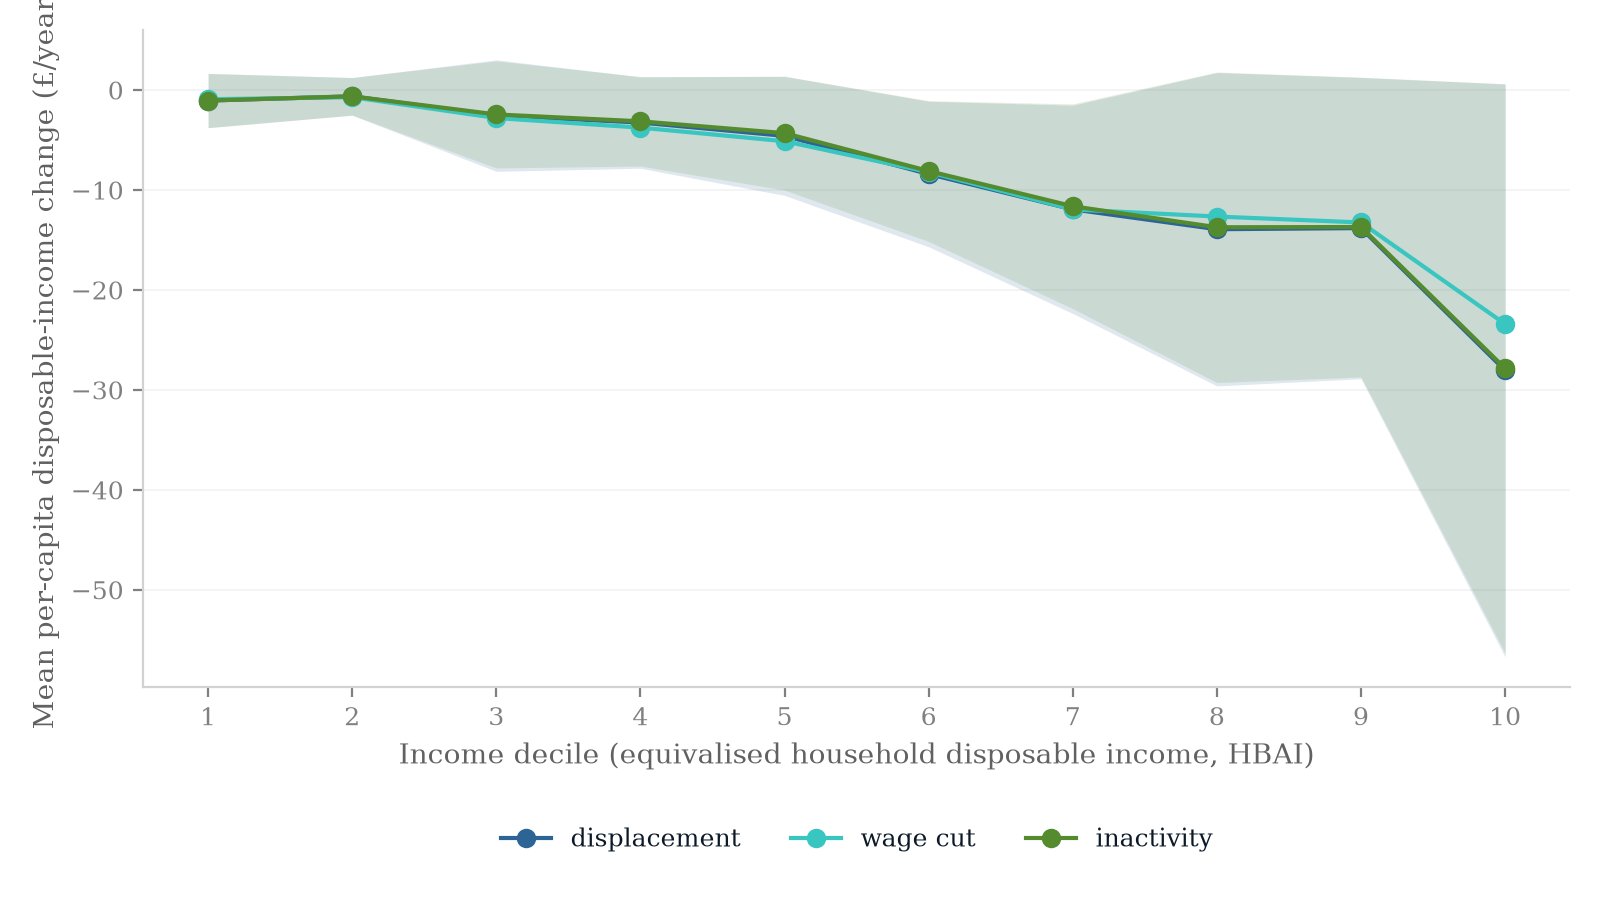
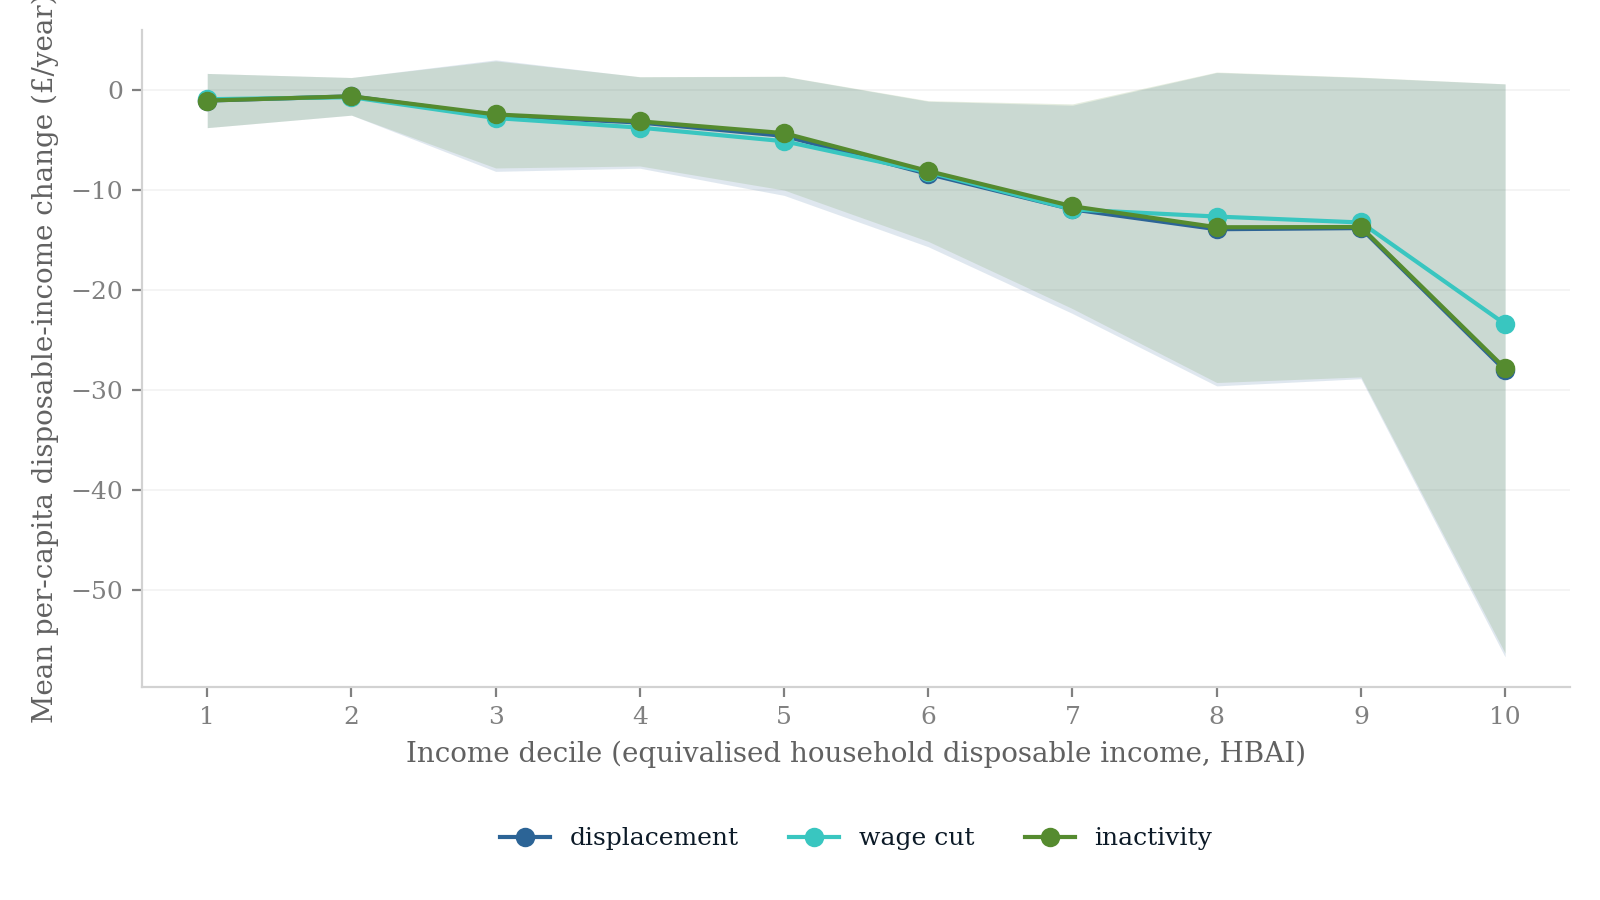
Report paper monetary values in millions

diff --git a/analysis/write_paper_results.py b/analysis/write_paper_results.py
@@ -84,18 +84,18 @@ def main() -> None:
         "FullDisplacedWorkers": _fmt(fd["displaced_weighted_mean"], 1 / 1_000, 1),
         "FullDisplacedGross": _fmt(
             sum(d["gross_earnings_loss"] for d in fd["draws"]) / len(fd["draws"]),
-            1 / 1e9,
-            3,
+            1 / 1e6,
+            0,
         ),
         "FullDisplacedGrossSD": _fmt(
             _sample_sd([d["gross_earnings_loss"] for d in fd["draws"]]),
-            1 / 1e9,
-            3,
+            1 / 1e6,
+            0,
         ),
-        "FullDisplacedExchequer": _fmt(fd["exchequer_cost_mean"], 1 / 1e9, 3),
-        "FullDisplacedExchequerSD": _fmt(fd["exchequer_cost_sd"], 1 / 1e9, 3),
+        "FullDisplacedExchequer": _fmt(fd["exchequer_cost_mean"], 1 / 1e6, 0),
+        "FullDisplacedExchequerSD": _fmt(fd["exchequer_cost_sd"], 1 / 1e6, 0),
         "FullDisplacedExchequerMCSE": _fmt(
-            fd["exchequer_cost_mc_se"], 1 / 1e9, 3
+            fd["exchequer_cost_mc_se"], 1 / 1e6, 0
         ),
         "FullDisplacedCushion": _fmt(fd["cushioning_rate_mean"], 100, 1),
         "FullDisplacedCushionSD": _fmt(fd["cushioning_rate_sd"], 100, 1),
@@ -104,46 +104,46 @@ def main() -> None:
         ),
         "FullDisplacedPoverty": _fmt(fd["poverty_rate_change_bhc_mean"], 100, 3),
         "FullDisplacedPovertySD": _fmt(fd["poverty_rate_change_bhc_sd"], 100, 3),
-        "FullWageExchequer": _fmt(fw["exchequer_cost_mean"], 1 / 1e9, 3),
+        "FullWageExchequer": _fmt(fw["exchequer_cost_mean"], 1 / 1e6, 0),
         "FullWageCushion": _fmt(fw["cushioning_rate_mean"], 100, 1),
-        "FullInactiveExchequer": _fmt(fi["exchequer_cost_mean"], 1 / 1e9, 3),
-        "FullInactiveExchequerSD": _fmt(fi["exchequer_cost_sd"], 1 / 1e9, 3),
+        "FullInactiveExchequer": _fmt(fi["exchequer_cost_mean"], 1 / 1e6, 0),
+        "FullInactiveExchequerSD": _fmt(fi["exchequer_cost_sd"], 1 / 1e6, 0),
         "FullInactiveCushion": _fmt(fi["cushioning_rate_mean"], 100, 1),
         "FullInactiveCushionSD": _fmt(fi["cushioning_rate_sd"], 100, 1),
         "EPDDisplacedWorkers": _fmt(ed["displaced_weighted_mean"], 1 / 1_000, 1),
         "EPDDisplacedGross": _fmt(
-            _mean([d["gross_earnings_loss"] for d in ed["draws"]]), 1 / 1e9, 3
+            _mean([d["gross_earnings_loss"] for d in ed["draws"]]), 1 / 1e6, 0
         ),
         "EPDDisplacedGrossSD": _fmt(
             _sample_sd([d["gross_earnings_loss"] for d in ed["draws"]]),
-            1 / 1e9,
-            3,
+            1 / 1e6,
+            0,
         ),
-        "EPDDisplacedExchequer": _fmt(ed["exchequer_cost_mean"], 1 / 1e9, 3),
-        "EPDDisplacedExchequerSD": _fmt(ed["exchequer_cost_sd"], 1 / 1e9, 3),
+        "EPDDisplacedExchequer": _fmt(ed["exchequer_cost_mean"], 1 / 1e6, 0),
+        "EPDDisplacedExchequerSD": _fmt(ed["exchequer_cost_sd"], 1 / 1e6, 0),
         "EPDDisplacedCushion": _fmt(ed["cushioning_rate_mean"], 100, 1),
         "EPDDisplacedCushionSD": _fmt(ed["cushioning_rate_sd"], 100, 1),
         "EPDDisplacedPoverty": _fmt(ed["poverty_rate_change_bhc_mean"], 100, 3),
         "EPDDisplacedPovertySD": _fmt(ed["poverty_rate_change_bhc_sd"], 100, 3),
-        "EPDWageExchequer": _fmt(ew["exchequer_cost_mean"], 1 / 1e9, 3),
+        "EPDWageExchequer": _fmt(ew["exchequer_cost_mean"], 1 / 1e6, 0),
         "EPDWageCushion": _fmt(ew["cushioning_rate_mean"], 100, 1),
-        "EPDInactiveExchequer": _fmt(ei["exchequer_cost_mean"], 1 / 1e9, 3),
-        "EPDInactiveExchequerSD": _fmt(ei["exchequer_cost_sd"], 1 / 1e9, 3),
+        "EPDInactiveExchequer": _fmt(ei["exchequer_cost_mean"], 1 / 1e6, 0),
+        "EPDInactiveExchequerSD": _fmt(ei["exchequer_cost_sd"], 1 / 1e6, 0),
         "EPDInactiveCushion": _fmt(ei["cushioning_rate_mean"], 100, 1),
         "EPDInactiveCushionSD": _fmt(ei["cushioning_rate_sd"], 100, 1),
         "MeasuredDisplacedWorkers": _fmt(md["displaced_weighted_mean"], 1 / 1_000, 1),
-        "MeasuredDisplacedExchequer": _fmt(md["exchequer_cost_mean"], 1 / 1e9, 3),
-        "MeasuredDisplacedExchequerSD": _fmt(md["exchequer_cost_sd"], 1 / 1e9, 3),
+        "MeasuredDisplacedExchequer": _fmt(md["exchequer_cost_mean"], 1 / 1e6, 0),
+        "MeasuredDisplacedExchequerSD": _fmt(md["exchequer_cost_sd"], 1 / 1e6, 0),
         "MeasuredDisplacedCushion": _fmt(md["cushioning_rate_mean"], 100, 1),
         "MeasuredDisplacedCushionSD": _fmt(md["cushioning_rate_sd"], 100, 1),
-        "MeasuredWageExchequer": _fmt(mw["exchequer_cost_mean"], 1 / 1e9, 3),
+        "MeasuredWageExchequer": _fmt(mw["exchequer_cost_mean"], 1 / 1e6, 0),
         "MeasuredWageCushion": _fmt(mw["cushioning_rate_mean"], 100, 1),
         "EPDWorkerDifference": _fmt(_mean(paired_workers), 1.0, 0),
         "EPDWorkerDifferenceSD": _fmt(_sample_sd(paired_workers), 1.0, 0),
-        "EPDGrossDifference": _fmt(_mean(paired_gross), 1 / 1e9, 3),
-        "EPDGrossDifferenceSD": _fmt(_sample_sd(paired_gross), 1 / 1e9, 3),
-        "EPDExchequerDifference": _fmt(_mean(paired_exchequer), 1 / 1e9, 3),
-        "EPDExchequerDifferenceSD": _fmt(_sample_sd(paired_exchequer), 1 / 1e9, 3),
+        "EPDGrossDifference": _fmt(_mean(paired_gross), 1 / 1e6, 0),
+        "EPDGrossDifferenceSD": _fmt(_sample_sd(paired_gross), 1 / 1e6, 0),
+        "EPDExchequerDifference": _fmt(_mean(paired_exchequer), 1 / 1e6, 0),
+        "EPDExchequerDifferenceSD": _fmt(_sample_sd(paired_exchequer), 1 / 1e6, 0),
         "EPDPovertyDifference": _fmt(_mean(paired_poverty), 100, 4),
         "EPDPovertyDifferenceSD": _fmt(_sample_sd(paired_poverty), 100, 4),
     }

diff --git a/paper/generated_results.tex b/paper/generated_results.tex
@@ -1,49 +1,49 @@
 % Generated by analysis/write_paper_results.py; do not edit by hand.
 \newcommand{\ProductionDraws}{100}
 \newcommand{\FullDisplacedWorkers}{17.2}
-\newcommand{\FullDisplacedGross}{0.882}
-\newcommand{\FullDisplacedGrossSD}{0.418}
-\newcommand{\FullDisplacedExchequer}{0.408}
-\newcommand{\FullDisplacedExchequerSD}{0.224}
-\newcommand{\FullDisplacedExchequerMCSE}{0.022}
+\newcommand{\FullDisplacedGross}{882}
+\newcommand{\FullDisplacedGrossSD}{418}
+\newcommand{\FullDisplacedExchequer}{408}
+\newcommand{\FullDisplacedExchequerSD}{224}
+\newcommand{\FullDisplacedExchequerMCSE}{22}
 \newcommand{\FullDisplacedCushion}{36.4}
 \newcommand{\FullDisplacedCushionSD}{4.9}
 \newcommand{\FullDisplacedCushionMCSE}{0.5}
 \newcommand{\FullDisplacedPoverty}{0.025}
 \newcommand{\FullDisplacedPovertySD}{0.017}
-\newcommand{\FullWageExchequer}{0.495}
+\newcommand{\FullWageExchequer}{495}
 \newcommand{\FullWageCushion}{41.3}
-\newcommand{\FullInactiveExchequer}{0.419}
-\newcommand{\FullInactiveExchequerSD}{0.226}
+\newcommand{\FullInactiveExchequer}{419}
+\newcommand{\FullInactiveExchequerSD}{226}
 \newcommand{\FullInactiveCushion}{37.7}
 \newcommand{\FullInactiveCushionSD}{5.1}
 \newcommand{\EPDDisplacedWorkers}{13.5}
-\newcommand{\EPDDisplacedGross}{0.678}
-\newcommand{\EPDDisplacedGrossSD}{0.374}
-\newcommand{\EPDDisplacedExchequer}{0.312}
-\newcommand{\EPDDisplacedExchequerSD}{0.203}
+\newcommand{\EPDDisplacedGross}{678}
+\newcommand{\EPDDisplacedGrossSD}{374}
+\newcommand{\EPDDisplacedExchequer}{312}
+\newcommand{\EPDDisplacedExchequerSD}{203}
 \newcommand{\EPDDisplacedCushion}{35.7}
 \newcommand{\EPDDisplacedCushionSD}{6.0}
 \newcommand{\EPDDisplacedPoverty}{0.020}
 \newcommand{\EPDDisplacedPovertySD}{0.015}
-\newcommand{\EPDWageExchequer}{0.386}
+\newcommand{\EPDWageExchequer}{386}
 \newcommand{\EPDWageCushion}{41.1}
-\newcommand{\EPDInactiveExchequer}{0.320}
-\newcommand{\EPDInactiveExchequerSD}{0.206}
+\newcommand{\EPDInactiveExchequer}{320}
+\newcommand{\EPDInactiveExchequerSD}{206}
 \newcommand{\EPDInactiveCushion}{37.0}
 \newcommand{\EPDInactiveCushionSD}{6.3}
 \newcommand{\MeasuredDisplacedWorkers}{17.3}
-\newcommand{\MeasuredDisplacedExchequer}{0.420}
-\newcommand{\MeasuredDisplacedExchequerSD}{0.233}
+\newcommand{\MeasuredDisplacedExchequer}{420}
+\newcommand{\MeasuredDisplacedExchequerSD}{233}
 \newcommand{\MeasuredDisplacedCushion}{36.7}
 \newcommand{\MeasuredDisplacedCushionSD}{5.2}
-\newcommand{\MeasuredWageExchequer}{0.528}
+\newcommand{\MeasuredWageExchequer}{528}
 \newcommand{\MeasuredWageCushion}{41.6}
 \newcommand{\EPDWorkerDifference}{3743}
 \newcommand{\EPDWorkerDifferenceSD}{2832}
-\newcommand{\EPDGrossDifference}{0.204}
-\newcommand{\EPDGrossDifferenceSD}{0.192}
-\newcommand{\EPDExchequerDifference}{0.096}
-\newcommand{\EPDExchequerDifferenceSD}{0.103}
+\newcommand{\EPDGrossDifference}{204}
+\newcommand{\EPDGrossDifferenceSD}{192}
+\newcommand{\EPDExchequerDifference}{96}
+\newcommand{\EPDExchequerDifferenceSD}{103}
 \newcommand{\EPDPovertyDifference}{0.0049}
 \newcommand{\EPDPovertyDifferenceSD}{0.0063}

diff --git a/paper/sections/appendix.tex b/paper/sections/appendix.tex
@@ -2,7 +2,7 @@
 
 \section{Data appendix}\label{app:data}
 
-US exports use HMRC uktradeinfo OTS/RTS data for 2024, mapped from SITC to SIC 2007 divisions and divided by the latest non-suppressed ONS Annual Business Survey turnover. Of a \pounds 55.6 billion customs-basis total, \pounds 52.5 billion maps to divisions after documented exclusions, chiefly non-monetary gold and precious metals. The measured window uses May 2025--February 2026 against the mean of the same calendar months one and two years earlier. Its 12.7 per cent aggregate fall is descriptive, not causal.
+US exports use HMRC uktradeinfo OTS/RTS data for 2024, mapped from SITC to SIC 2007 divisions and divided by the latest non-suppressed ONS Annual Business Survey turnover. Of a \pounds 55,600 million customs-basis total, \pounds 52,500 million maps to divisions after documented exclusions, chiefly non-monetary gold and precious metals. The measured window uses May 2025--February 2026 against the mean of the same calendar months one and two years earlier. Its 12.7 per cent aggregate fall is descriptive, not causal.
 
 \section{Shock mechanics}\label{app:mechanics}
 
@@ -47,13 +47,13 @@ adjustment mix changes the share absorbed by taxes and transfers.
 
 The reallocation exercise uses five paired assignments and is exploratory.
 Under the full schedule, the central 28.3 per cent penalty produces a mean
-gross loss of \pounds0.264 billion, Exchequer cost of
-\pounds $0.149\pm0.131$ billion, cushioning of $39.7\pm3.4$ per cent, and zero
+gross loss of \pounds264 million, Exchequer cost of
+\pounds $149\pm131$ million, cushioning of $39.7\pm3.4$ per cent, and zero
 measured BHC-poverty change. With a three-month lag, gross loss rises to
-\pounds0.432 billion and the Exchequer cost to
-\pounds $0.245\pm0.216$ billion. The 14 per cent penalty gives gross loss of
-\pounds0.131 billion and Exchequer cost of
-\pounds $0.075\pm0.064$ billion. These pound levels are not commensurable with
+\pounds432 million and the Exchequer cost to
+\pounds $245\pm216$ million. The 14 per cent penalty gives gross loss of
+\pounds131 million and Exchequer cost of
+\pounds $75\pm64$ million. These pound levels are not commensurable with
 the economy-wide wage-cut scenario because only selected movers' penalty is
 removed.
 
@@ -68,9 +68,9 @@ The downside displacement scenario affects \MeasuredDisplacedWorkers\ thousand
 weighted workers on average, is cushioned by
 $\MeasuredDisplacedCushion\pm\MeasuredDisplacedCushionSD$ per cent and costs
 the Exchequer
-\pounds $\MeasuredDisplacedExchequer\pm\MeasuredDisplacedExchequerSD$ billion.
+\pounds $\MeasuredDisplacedExchequer\pm\MeasuredDisplacedExchequerSD$ million.
 The wage-cut scenario is cushioned by \MeasuredWageCushion\ per cent and costs
-\pounds\MeasuredWageExchequer\ billion. This is an observed-outturn downside
+\pounds\MeasuredWageExchequer\ million. This is an observed-outturn downside
 stress case, not a tariff-caused or preferred estimate; the validation
 artifact also reports signed net exposure before expanding divisions are
 clipped.
@@ -89,7 +89,7 @@ The model reports the internally coherent full-year endpoint only. An earlier si
 
 \section{Supply-chain sensitivity}\label{app:supplychain}
 
-The input--output scenario adds upstream requirements using the ONS domestic Leontief inverse. The accounting shock has a 1.95 direct-plus-upstream factor. It is not a lower bound and is not multiplied by local-employment multipliers. In the exploratory five-assignment microsimulation, displacement affects 29,700 weighted workers on average, costs the Exchequer \pounds $0.68\pm0.31$ billion and raises relative BHC poverty by 0.028 percentage points. The wage-cut variant costs \pounds 0.96 billion and leaves measured relative poverty unchanged. These figures are accounting sensitivities, not all-channel causal estimates.
+The input--output scenario adds upstream requirements using the ONS domestic Leontief inverse. The accounting shock has a 1.95 direct-plus-upstream factor. It is not a lower bound and is not multiplied by local-employment multipliers. In the exploratory five-assignment microsimulation, displacement affects 29,700 weighted workers on average, costs the Exchequer \pounds $680\pm310$ million and raises relative BHC poverty by 0.028 percentage points. The wage-cut variant costs \pounds 960 million and leaves measured relative poverty unchanged. These figures are accounting sensitivities, not all-channel causal estimates.
 
 \section{Constituency illustration}\label{app:constituency}
 

diff --git a/analysis/figures.py b/analysis/figures.py
@@ -59,7 +59,7 @@ def fig_exchequer_draws() -> None:
     labels, data = [], []
     for tariff, label in (("full_tariff", "Full tariffs"), ("epd", "EPD")):
         result = load(f"{tariff}_displacement")
-        data.append([d["exchequer_cost"] / 1e9 for d in result["draws"]])
+        data.append([d["exchequer_cost"] / 1e6 for d in result["draws"]])
         labels.append(label)
     bp = ax.boxplot(
         data, tick_labels=labels, patch_artist=True, widths=0.45,
@@ -76,14 +76,14 @@ def fig_exchequer_draws() -> None:
         )
     for i, tariff in enumerate(("full_tariff", "epd"), start=1):
         wc_result = load(f"{tariff}_wage_cut")
-        wc = wc_result["exchequer_cost_mean"] / 1e9
-        wc_sd = wc_result["exchequer_cost_sd"] / 1e9
+        wc = wc_result["exchequer_cost_mean"] / 1e6
+        wc_sd = wc_result["exchequer_cost_sd"] / 1e6
         ax.errorbar(
             i, wc, yerr=wc_sd, fmt="D", color=figstyle.TEAL_PRESSED,
             capsize=4, zorder=4,
             label="wage-cut margin (mean ± assignment SD)" if i == 1 else None,
         )
-    ax.set_ylabel("Exchequer cost (£bn/year)")
+    ax.set_ylabel("Exchequer cost (£ million/year)")
     ax.set_xlabel("Displacement-margin Monte Carlo draws")
     figstyle.legend_below(ax, ncol=1)
     FIGURES.mkdir(parents=True, exist_ok=True)
@@ -98,14 +98,14 @@ def fig_epd_counterfactual() -> None:
     for i, (tariff, colour) in enumerate(
         (("full_tariff", figstyle.BLUE), ("epd", figstyle.TEAL))
     ):
-        means = [load(f"{tariff}_{m}")["exchequer_cost_mean"] / 1e9 for m in margins]
-        sds = [load(f"{tariff}_{m}")["exchequer_cost_sd"] / 1e9 for m in margins]
+        means = [load(f"{tariff}_{m}")["exchequer_cost_mean"] / 1e6 for m in margins]
+        sds = [load(f"{tariff}_{m}")["exchequer_cost_sd"] / 1e6 for m in margins]
         x = [j + (i - 0.5) * 0.35 for j in range(len(margins))]
         ax.bar(x, means, width=0.35, yerr=sds, color=colour,
                label="Full tariffs" if tariff == "full_tariff" else "EPD")
     ax.set_xticks(range(len(margins)))
     ax.set_xticklabels([m.replace("_", " ") for m in margins])
-    ax.set_ylabel("Exchequer cost (£bn/year)")
+    ax.set_ylabel("Exchequer cost (£ million/year)")
     figstyle.legend_below(ax, ncol=2)
     FIGURES.mkdir(parents=True, exist_ok=True)
     figstyle.save(fig, FIGURES / "epd_counterfactual.png")

diff --git a/paper/sections/results.tex b/paper/sections/results.tex
@@ -4,7 +4,7 @@ All central results use FRS 2024--25, period 2026, and \ProductionDraws\ assignm
 
 \subsection{Derived sector shocks}\label{sec:results-shocks}
 
-The deterministic full-schedule direct earnings stress is \pounds 0.886 billion annually; the EPD stress is \pounds 0.693 billion. These are scenario inputs generated by Equation~\eqref{eq:shock}, not estimated causal effects. The sector rates are exactly half those of the former $\varepsilon=2$ high case.
+The deterministic full-schedule direct earnings stress is \pounds 886 million annually; the EPD stress is \pounds 693 million. These are scenario inputs generated by Equation~\eqref{eq:shock}, not estimated causal effects. The sector rates are exactly half those of the former $\varepsilon=2$ high case.
 
 \subsection{Cushioning}\label{sec:results-cushioning}
 
@@ -16,13 +16,13 @@ The deterministic full-schedule direct earnings stress is \pounds 0.886 billion 
 \begin{tabular}{llrrrr}
 \toprule
 Schedule & Margin & Workers & Gross loss & Exchequer & Cushioning \\
-& & (thousands) & (\pounds bn) & (\pounds bn) & (\%) \\
+& & (thousands) & (\pounds million) & (\pounds million) & (\%) \\
 \midrule
 Full & Displacement & \FullDisplacedWorkers & $\FullDisplacedGross\pm\FullDisplacedGrossSD$ & $\FullDisplacedExchequer\pm\FullDisplacedExchequerSD$ & $\FullDisplacedCushion\pm\FullDisplacedCushionSD$ \\
-Full & Wage cut & --- & 0.886 & \FullWageExchequer & \FullWageCushion \\
+Full & Wage cut & --- & 886 & \FullWageExchequer & \FullWageCushion \\
 Full & Inactivity & \FullDisplacedWorkers & $\FullDisplacedGross\pm\FullDisplacedGrossSD$ & $\FullInactiveExchequer\pm\FullInactiveExchequerSD$ & $\FullInactiveCushion\pm\FullInactiveCushionSD$ \\
 EPD & Displacement & \EPDDisplacedWorkers & $\EPDDisplacedGross\pm\EPDDisplacedGrossSD$ & $\EPDDisplacedExchequer\pm\EPDDisplacedExchequerSD$ & $\EPDDisplacedCushion\pm\EPDDisplacedCushionSD$ \\
-EPD & Wage cut & --- & 0.693 & \EPDWageExchequer & \EPDWageCushion \\
+EPD & Wage cut & --- & 693 & \EPDWageExchequer & \EPDWageCushion \\
 EPD & Inactivity & \EPDDisplacedWorkers & $\EPDDisplacedGross\pm\EPDDisplacedGrossSD$ & $\EPDInactiveExchequer\pm\EPDInactiveExchequerSD$ & $\EPDInactiveCushion\pm\EPDInactiveCushionSD$ \\
 \bottomrule
 \end{tabular}
@@ -31,7 +31,7 @@ EPD & Inactivity & \EPDDisplacedWorkers & $\EPDDisplacedGross\pm\EPDDisplacedGro
 \end{minipage}
 \end{table}
 
-The full-schedule displacement and wage-cut cushioning rates differ in their means, while displacement retains material assignment dispersion. For the displacement mean, the numerical Monte Carlo SE is \FullDisplacedCushionMCSE\ percentage points for cushioning and \pounds\FullDisplacedExchequerMCSE\ billion for Exchequer cost. These quantities measure simulation precision only. The decomposition remains economically informative: proportional cuts remove the top slice of earnings and therefore receive relief near marginal tax rates; displacement removes the whole earnings stream and receives relief nearer average rates, with UC providing part of the remainder. These are descriptive model mechanisms rather than estimates of behavioural insurance reliability.
+The full-schedule displacement and wage-cut cushioning rates differ in their means, while displacement retains material assignment dispersion. For the displacement mean, the numerical Monte Carlo SE is \FullDisplacedCushionMCSE\ percentage points for cushioning and \pounds\FullDisplacedExchequerMCSE\ million for Exchequer cost. These quantities measure simulation precision only. The decomposition remains economically informative: proportional cuts remove the top slice of earnings and therefore receive relief near marginal tax rates; displacement removes the whole earnings stream and receives relief nearer average rates, with UC providing part of the remainder. These are descriptive model mechanisms rather than estimates of behavioural insurance reliability.
 
 \paragraph{Take-up sensitivity.} The regenerated grid applies the same post-shock-entitlement claiming rule to all margins. It uses only five assignments per cell and is exploratory. It shows that displacement responds more visibly to the assumed claiming probability, while wage-cut results move little because relatively few wage-cut households change UC entitlement. No grid difference is treated as statistically identified.
 
@@ -54,7 +54,7 @@ Under full displacement, relative BHC poverty rises by $\FullDisplacedPoverty\pm
 
 \begin{table}[htbp]
 \centering
-\caption{Annual Exchequer cost (\pounds billion)}
+\caption{Annual Exchequer cost (\pounds million)}
 \label{tab:fiscal}
 \begin{tabular}{lccc}
 \toprule
@@ -75,7 +75,7 @@ EPD & $\EPDDisplacedExchequer\pm\EPDDisplacedExchequerSD$ & \EPDWageExchequer & 
 
 \subsection{EPD counterfactual}\label{sec:results-epd}
 
-On paired seeds, full minus EPD displacement differs by $\EPDWorkerDifference\pm\EPDWorkerDifferenceSD$ workers, \pounds $\EPDGrossDifference\pm\EPDGrossDifferenceSD$ billion of gross earnings, and \pounds $\EPDExchequerDifference\pm\EPDExchequerDifferenceSD$ billion of Exchequer cost. The poverty-rate difference is $\EPDPovertyDifference\pm\EPDPovertyDifferenceSD$ percentage points. These are paired scenario contrasts, not causal deal estimates.
+On paired seeds, full minus EPD displacement differs by $\EPDWorkerDifference\pm\EPDWorkerDifferenceSD$ workers, \pounds $\EPDGrossDifference\pm\EPDGrossDifferenceSD$ million of gross earnings, and \pounds $\EPDExchequerDifference\pm\EPDExchequerDifferenceSD$ million of Exchequer cost. The poverty-rate difference is $\EPDPovertyDifference\pm\EPDPovertyDifferenceSD$ percentage points. These are paired scenario contrasts, not causal deal estimates.
 
 \begin{figure}[htbp]
 \centering

diff --git a/paper/main.tex b/paper/main.tex
@@ -21,7 +21,7 @@
 \usepackage{natbib}
 \bibliographystyle{apalike}
 
-\title{\bfseries The Fiscal Incidence of Trade-Related Labour-Income Shocks in the UK\thanks{\textbf{Acknowledgements:} This is an open, reproducible research project. The author thanks PolicyEngine contributors for the underlying microsimulation infrastructure. All interpretations and remaining errors are the author's own.}\\[0.7cm]}
+\title{\bfseries The Fiscal Incidence of Trade-Related Labour-Income Shocks in the UK\thanks{\textbf{Acknowledgements:} This is an open, reproducible research project. The author thanks PolicyEngine contributors for the underlying microsimulation infrastructure.}\\[0.7cm]}
 \author{Vahid Ahmadi\thanks{Research Associate at PolicyEngine. Email: \href{mailto:[email redacted]}{[email redacted]}.}}
 \date{\small \ifcase\month\or January\or February\or March\or April\or May\or June\or July\or August\or September\or October\or November\or December\fi\ \the\year}
 
@@ -31,7 +31,7 @@
 \maketitle
 
 \begin{abstract}
-\noindent This paper examines how the UK tax--benefit system cushions imposed labour-income losses associated with exposure to the 2025 US tariffs. I link 2024--25 Family Resources Survey households to SIC-level export exposure and use PolicyEngine UK to simulate earnings-equivalent wage cuts, job displacement, inactivity and reallocation. Under full-tariff exposure, the imposed annual earnings stress is \pounds0.886 billion. The system offsets \FullWageCushion\ per cent under wage cuts and \FullDisplacedCushion\ per cent on average under displacement; Exchequer costs are \pounds\FullWageExchequer\ billion and \pounds\FullDisplacedExchequer\ billion. Results use \ProductionDraws\ assignments and distinguish assignment dispersion from numerical Monte Carlo error. The exercise is static, partial-equilibrium and first-round. It does not estimate tariff pass-through, production, labour demand, prices or total welfare: the tariff-to-wage-bill bridge and adjustment margins are imposed scenarios. The paper shows how labour-market adjustments reshape statutory fiscal and distributional incidence conditional on a common expected earnings loss.
+\noindent This paper examines how the UK tax--benefit system cushions imposed labour-income losses associated with exposure to the 2025 US tariffs. I link 2024--25 Family Resources Survey households to SIC-level export exposure and use PolicyEngine UK to simulate earnings-equivalent wage cuts, job displacement, inactivity and reallocation. Under full-tariff exposure, the imposed annual earnings stress is \pounds886 million. The system offsets \FullWageCushion\ per cent under wage cuts and \FullDisplacedCushion\ per cent on average under displacement; Exchequer costs are \pounds\FullWageExchequer\ million and \pounds\FullDisplacedExchequer\ million. Results use \ProductionDraws\ assignments and distinguish assignment dispersion from numerical Monte Carlo error. The exercise is static, partial-equilibrium and first-round. It does not estimate tariff pass-through, production, labour demand, prices or total welfare: the tariff-to-wage-bill bridge and adjustment margins are imposed scenarios. The paper shows how labour-market adjustments reshape statutory fiscal and distributional incidence conditional on a common expected earnings loss.
 \end{abstract}
 
 \medskip

diff --git a/paper/sections/discussion.tex b/paper/sections/discussion.tex
@@ -1,12 +1,12 @@
 \section{Discussion and conclusion}\label{sec:discussion}
 
-This paper is a conditional stress test of direct labour-income scenarios, not an estimate of the tariffs' total causal incidence. Under the full schedule, displacement is cushioned by $\FullDisplacedCushion\pm\FullDisplacedCushionSD$ per cent, inactivity by $\FullInactiveCushion\pm\FullInactiveCushionSD$ per cent and wage cuts by \FullWageCushion\ per cent. Exchequer costs are \pounds $\FullDisplacedExchequer\pm\FullDisplacedExchequerSD$ billion, \pounds $\FullInactiveExchequer\pm\FullInactiveExchequerSD$ billion and \pounds\FullWageExchequer\ billion respectively. Every $\pm$ value is assignment dispersion; numerical Monte Carlo SE is stored separately.
+This paper is a conditional stress test of direct labour-income scenarios, not an estimate of the tariffs' total causal incidence. Under the full schedule, displacement is cushioned by $\FullDisplacedCushion\pm\FullDisplacedCushionSD$ per cent, inactivity by $\FullInactiveCushion\pm\FullInactiveCushionSD$ per cent and wage cuts by \FullWageCushion\ per cent. Exchequer costs are \pounds $\FullDisplacedExchequer\pm\FullDisplacedExchequerSD$ million, \pounds $\FullInactiveExchequer\pm\FullInactiveExchequerSD$ million and \pounds\FullWageExchequer\ million respectively. Every $\pm$ value is assignment dispersion; numerical Monte Carlo SE is stored separately.
 
 The component mechanism is consistent with automatic-stabiliser theory: proportional earnings cuts receive tax relief near marginal rates, while a whole-job loss receives relief nearer average rates and relies more on UC. The corrected common claiming rule applies to every margin. Five-assignment take-up and gate exercises are exploratory and do not establish behavioural reliability or precise gate shares.
 
 National poverty effects are small in the central scenarios: $+\FullDisplacedPoverty\pm\FullDisplacedPovertySD$ percentage points under full displacement and zero at displayed precision under wage cuts. These changes should not be interpreted as precise population estimates because survey and production-side uncertainty are omitted. They also do not make selected households' losses small: the exposed population is limited and often above the poverty line before the shock.
 
-The paired full-minus-EPD displacement contrast is $\EPDWorkerDifference\pm\EPDWorkerDifferenceSD$ workers and \pounds $\EPDExchequerDifference\pm\EPDExchequerDifferenceSD$ billion of annual Exchequer cost. This is a scenario comparison driven substantially by autos, not a causal evaluation of the deal.
+The paired full-minus-EPD displacement contrast is $\EPDWorkerDifference\pm\EPDWorkerDifferenceSD$ workers and \pounds $\EPDExchequerDifference\pm\EPDExchequerDifferenceSD$ million of annual Exchequer cost. This is a scenario comparison driven substantially by autos, not a causal evaluation of the deal.
 
 The main limitation is structural: the model starts at the end of the production-side transmission mechanism. It does not estimate how the tariff changes border prices, export quantities, domestic output, value added, imported-input costs, firm productivity, investment, profits or labour demand. It assigns calibrated exposure directly to the wage bill and then assumes how that loss is divided among wages, employment, inactivity and reallocation. The results therefore answer a conditional fiscal-incidence question---what statutory taxes and transfers do after specified labour-income changes---not what the tariff does to the economy. Assignment is also independent within broad SIC divisions; the inactivity scenario assumes WCA passage for selected older workers; New Style JSA and within-year timing are absent; household labour-supply responses are suppressed; and indirect taxes, exchange rates, market switching, retaliation and general equilibrium are outside the central model. The supply-chain calculation is an accounting sensitivity, not a lower bound, and cannot be mechanically combined with local-employment multipliers. Constituency results are illustrative because local industry is not observed at the required level.
 

diff --git a/paper/sections/intro.tex b/paper/sections/intro.tex
@@ -6,7 +6,7 @@ Who bears a foreign tariff shock after the tax--benefit system responds---and ho
 
 The calibration combines the tariff schedule, US export exposure by SIC division, and an export-demand scenario parameter to construct a sector exposure index. The exposure shares are built from ONS and HMRC data. A further wage-bill-incidence assumption maps that index directly to employee earnings. This deliberately strong step suppresses the intervening responses of export prices and quantities, domestic sales, imported inputs, production, productivity, profits and capital; it is not a structural production-side equation. The central scenario sets the demand parameter to 1.0. Sensitivities include an OBR-style lower anchor of 0.4, the former April-outturn ratio of 2.0 as a high case, and a severe value of 3.0. None is treated as an estimated coefficient. The resulting wage-bill stress is imposed on Family Resources Survey workers through four assumed adjustment families: wage cuts, displacement, inactivity among selected older workers, and reallocation into selected service industries at an FRS-calibrated earnings penalty. PolicyEngine UK then computes the conditional disposable-income, poverty, inequality and Exchequer responses. Employment and wages are scenario inputs at the microsimulation stage, not estimated consequences of the tariff.
 
-The central \ProductionDraws-assignment results show substantial assignment dispersion. Under the full schedule, Bernoulli displacement affects \FullDisplacedWorkers\ thousand weighted workers on average, removes \pounds $\FullDisplacedGross\pm\FullDisplacedGrossSD$ billion of earnings, and is cushioned by $\FullDisplacedCushion\pm\FullDisplacedCushionSD$ per cent; the earnings-equivalent-in-expectation wage-cut scenario is cushioned by \FullWageCushion\ per cent. The corresponding Exchequer costs are \pounds $\FullDisplacedExchequer\pm\FullDisplacedExchequerSD$ billion and \pounds\FullWageExchequer\ billion. Relative BHC poverty rises by $\FullDisplacedPoverty\pm\FullDisplacedPovertySD$ percentage points under displacement and does not move at displayed precision under wage cuts. Under the EPD schedule, displacement affects \EPDDisplacedWorkers\ thousand weighted workers on average, costs the Exchequer \pounds $\EPDDisplacedExchequer\pm\EPDDisplacedExchequerSD$ billion and raises poverty by $\EPDDisplacedPoverty\pm\EPDDisplacedPovertySD$ points. All $\pm$ values are assignment SDs; numerical Monte Carlo SEs are stored separately in the result artifacts.
+The central \ProductionDraws-assignment results show substantial assignment dispersion. Under the full schedule, Bernoulli displacement affects \FullDisplacedWorkers\ thousand weighted workers on average, removes \pounds $\FullDisplacedGross\pm\FullDisplacedGrossSD$ million of earnings, and is cushioned by $\FullDisplacedCushion\pm\FullDisplacedCushionSD$ per cent; the earnings-equivalent-in-expectation wage-cut scenario is cushioned by \FullWageCushion\ per cent. The corresponding Exchequer costs are \pounds $\FullDisplacedExchequer\pm\FullDisplacedExchequerSD$ million and \pounds\FullWageExchequer\ million. Relative BHC poverty rises by $\FullDisplacedPoverty\pm\FullDisplacedPovertySD$ percentage points under displacement and does not move at displayed precision under wage cuts. Under the EPD schedule, displacement affects \EPDDisplacedWorkers\ thousand weighted workers on average, costs the Exchequer \pounds $\EPDDisplacedExchequer\pm\EPDDisplacedExchequerSD$ million and raises poverty by $\EPDDisplacedPoverty\pm\EPDDisplacedPovertySD$ points. All $\pm$ values are assignment SDs; numerical Monte Carlo SEs are stored separately in the result artifacts.
 
 
 

diff --git a/paper/sections/policy.tex b/paper/sections/policy.tex
@@ -2,7 +2,7 @@
 
 \subsection{Economic Prosperity Deal}\label{sec:policy-epd}
 
-Within the maintained direct-channel scenarios, the paired full-minus-EPD displacement contrast is $\EPDWorkerDifference\pm\EPDWorkerDifferenceSD$ workers, \pounds $\EPDGrossDifference\pm\EPDGrossDifferenceSD$ billion of gross earnings and \pounds $\EPDExchequerDifference\pm\EPDExchequerDifferenceSD$ billion of annual Exchequer cost. These SDs describe assignment dispersion and the contrasts are not causal estimates of the deal. Autos drive much of the difference; the scenario applies the in-quota rate to fixed exposure without modelling quota allocation or future above-quota trade.
+Within the maintained direct-channel scenarios, the paired full-minus-EPD displacement contrast is $\EPDWorkerDifference\pm\EPDWorkerDifferenceSD$ workers, \pounds $\EPDGrossDifference\pm\EPDGrossDifferenceSD$ million of gross earnings and \pounds $\EPDExchequerDifference\pm\EPDExchequerDifferenceSD$ million of annual Exchequer cost. These SDs describe assignment dispersion and the contrasts are not causal estimates of the deal. Autos drive much of the difference; the scenario applies the in-quota rate to fixed exposure without modelling quota allocation or future above-quota trade.
 
 \subsection{Pharmaceutical channel}\label{sec:policy-pharma}
 